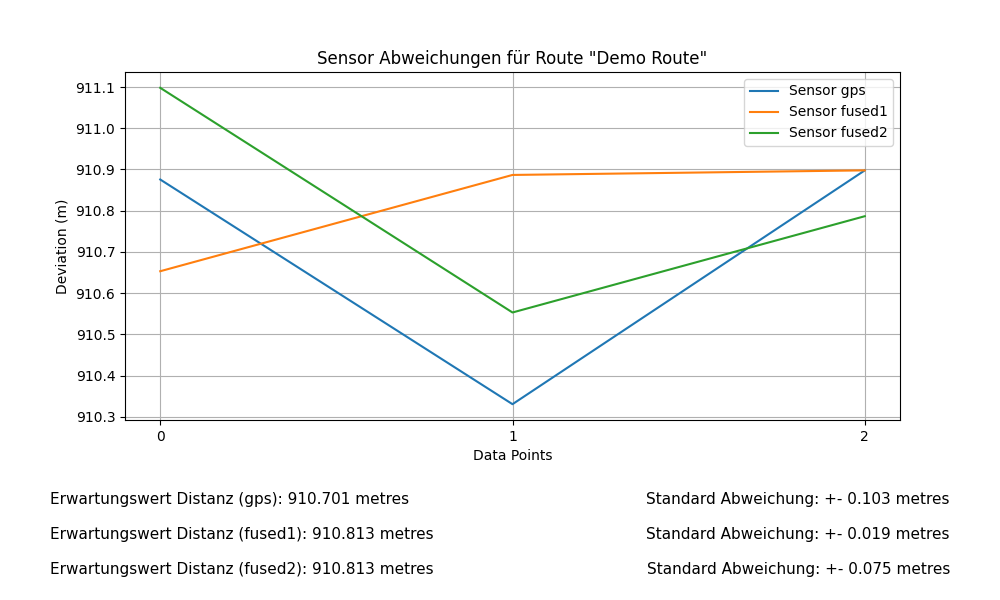
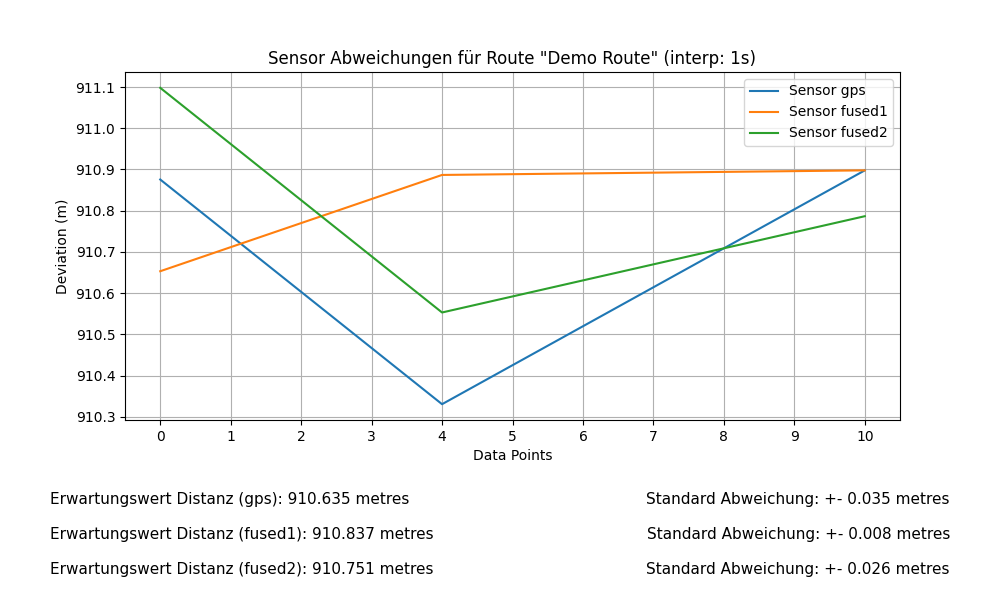
Interpolation hinzugefügt

diff --git a/main.py b/main.py
@@ -1,5 +1,7 @@
 import os
 import sys
+import time
+
 from calculations import *
 from plots import *
 import shutil
@@ -7,29 +9,35 @@ import shutil
 def generate_from_path(path, save_to=None):
     data_series: DataSeries = DataSeries.parse_from_csv(path)
     calculation_wrapper = data_series.extract_calc_wrapper()
+    interpolate_all_readings(calculation_wrapper)
 
     calculate_deviations_per_sensor(calculation_wrapper)
     calculate_sensor_div_expectation(calculation_wrapper)
     calculate_sensor_div_variance(calculation_wrapper)
 
+
+
     plot_deviation_per_sensor(calculation_wrapper,
                               show_avg_in_plot=False,
                               show_avg_under_plot=True,
                               show_variation_under_plot=True,
                               round_to=3,
-                              save_to=save_to+calculation_wrapper.route_name+"_both_under.png")
+                              save_to=save_to+calculation_wrapper.route_name+"_both_under.png",
+                              interpolation="1s")
     plot_deviation_per_sensor(calculation_wrapper,
                               show_avg_in_plot=True,
                               show_avg_under_plot=True,
                               show_variation_under_plot=True,
                               round_to=3,
-                              save_to=save_to+calculation_wrapper.route_name + "avg_in_plot.png")
+                              save_to=save_to+calculation_wrapper.route_name + "avg_in_plot.png",
+                              interpolation="1s")
     plot_deviation_per_sensor(calculation_wrapper,
                               show_avg_in_plot=False,
                               show_avg_under_plot=False,
                               show_variation_under_plot=False,
                               round_to=3,
-                              save_to=save_to+calculation_wrapper.route_name + "clean.png")
+                              save_to=save_to+calculation_wrapper.route_name + "clean.png",
+                              interpolation="1s")
 
     save_to += "/cdf/" # <- following files should be saved in cdf subdir
     for sensor in calculation_wrapper.sensors:
@@ -37,11 +45,12 @@ def generate_from_path(path, save_to=None):
         plot_cdf_and_confidence(calculation_wrapper.sensors[0], save_to=save_to + sensor.sensor_name + "_clean.png",
                                 highlight_50_ci=False,
                                 highlight_95_ci=False,
-                                show_interval_in_graph=False)
+                                show_interval_in_graph=False,
+                                interpolation="1s")
         plot_cdf_and_confidence(calculation_wrapper.sensors[0], save_to=save_to + sensor.sensor_name + "_subtle.png",
                                 highlight_50_ci=False,
-                                highlight_95_ci=False)
-
+                                highlight_95_ci=False,
+                                interpolation="1s")
 
 
 
@@ -62,8 +71,35 @@ def main():
         counter += 1
         if not os.path.isdir(file):
             os.makedirs(path + "/" + file.split(".")[0] + "_" + str(counter) + "/cdf")
-            generate_from_path(file, path + "/" + file.split(".")[0] + "_" + str(counter) + "/")
+            generate_from_path(path=file, save_to=path + "/" + file.split(".")[0] + "_" + str(counter) + "/")
+
+
+def debug():
+    data_series: DataSeries = DataSeries.parse_from_csv("demo.csv")
+    calculation_wrapper = data_series.extract_calc_wrapper()
+    calculation_wrapper = interpolate_all_readings(calculation_wrapper)
+
+    print(f"Now got {len(calculation_wrapper.sensors[0].readings)} readings")
+
+    calculate_deviations_per_sensor(calculation_wrapper)
+    calculate_sensor_div_expectation(calculation_wrapper)
+    calculate_sensor_div_variance(calculation_wrapper)
+
+    print("plotting")
+    plot_deviation_per_sensor(calculation_wrapper,
+                              show_avg_in_plot=False,
+                              show_avg_under_plot=True,
+                              show_variation_under_plot=True,
+                              round_to=3,)
 
 
 if __name__ == '__main__':
+    """
+    print(time.time_ns())
+    time.sleep(3)
+    print(time.time_ns())
+    time.sleep(5)
+    print(time.time_ns())
+    """
+    # debug()
     main()

diff --git a/calculations.py b/calculations.py
@@ -76,3 +76,51 @@ def print_deviation_per_sensor(wrapper: CalculationWrapper):
     for sensor in wrapper.sensors:
         for div in sensor.additional_payload.get("deviations"):
             print(div)
+
+
+def readings_interpolated(readings: list[Coordinate], freq_in_millis=1.0):
+    # Sort readings by timestamp
+    sorted_by_time = sorted(readings, key=lambda x: x.timestamp_nano)
+    interpolated = [sorted_by_time[0]]
+
+    # Iterate through the sorted readings
+    for i in range(1, len(sorted_by_time)):
+        reading_lower_interval = sorted_by_time[i - 1]
+        reading_higher_interval = sorted_by_time[i]
+
+        # Calculate time difference between adjacent readings in milliseconds
+        time_diff_millis = int(round((reading_higher_interval.timestamp_nano - reading_lower_interval.timestamp_nano) / 1e6))
+
+        # Calculate the number of intermediate points to insert
+        num_intermediate_points = int(time_diff_millis / (1000 / freq_in_millis))
+
+        if num_intermediate_points > 0:
+            # Calculate step size for linear interpolation
+            long_step = (reading_higher_interval.long - reading_lower_interval.long) / (num_intermediate_points + 1)
+            lat_step = (reading_higher_interval.lat - reading_lower_interval.lat) / (num_intermediate_points + 1)
+
+            # Perform linear interpolation for intermediate points
+            for j in range(1, num_intermediate_points + 1):
+                interpolated_long = reading_lower_interval.long + j * long_step
+                interpolated_lat = reading_lower_interval.lat + j * lat_step
+
+                # Calculate the timestamp for the interpolated point
+                interpolated_timestamp = reading_lower_interval.timestamp_nano + int(
+                    j * (time_diff_millis / (num_intermediate_points + 1)) * 1e6)
+
+                interpolated.append(Coordinate(long=interpolated_long, lat=interpolated_lat,
+                                               timestamp_nano=interpolated_timestamp))
+
+        interpolated.append(reading_higher_interval)
+
+    return interpolated
+
+
+def interpolate_all_readings(calculation_wrapper: CalculationWrapper, freq_in_millis=1.0):
+    # interpolate ground truth
+    calculation_wrapper.ground_truth = readings_interpolated(calculation_wrapper.ground_truth, freq_in_millis)
+
+    for sensor in calculation_wrapper.sensors:
+        sensor.readings = readings_interpolated(sensor.readings)
+
+    return calculation_wrapper

diff --git a/plots.py b/plots.py
@@ -9,7 +9,8 @@ def plot_deviation_per_sensor(wrapper: CalculationWrapper,
                               show_avg_under_plot=False,
                               show_variation_under_plot=False,
                               round_to=4,
-                              save_to=None):
+                              save_to=None,
+                              interpolation=None):
     plt.figure(figsize=(10, 6))
 
     all_divs = []
@@ -31,7 +32,7 @@ def plot_deviation_per_sensor(wrapper: CalculationWrapper,
 
     plt.xlabel('Data Points')
     plt.ylabel('Deviation (m)')
-    plt.title(f'Sensor Abweichungen für Route "{wrapper.route_name}"')
+    plt.title(f'Sensor Abweichungen für Route "{wrapper.route_name}" (interp: {interpolation})')
     plt.legend()
     plt.grid(True)
 
@@ -71,7 +72,8 @@ def plot_cdf_and_confidence(data: SensorData,
                             highlight_50_ci=True,
                             highlight_95_ci=True,
                             round_to=4,
-                            save_to=None):
+                            save_to=None,
+                            interpolation=None):
     # Extract relevant data
     deviations = data.additional_payload.get("deviations", [])
     expected_div = data.additional_payload.get("expected_div", 0)
@@ -85,7 +87,7 @@ def plot_cdf_and_confidence(data: SensorData,
     plt.figure(figsize=(8, 6))
     plt.plot(x, y, marker='o', linestyle='-', color='b')
     plt.title(f'CDF von {data.sensor_name}')
-    plt.xlabel('Positionierungsfehler')
+    plt.xlabel(f'Positionierungsfehler (interpolation: {interpolation})')
     plt.ylabel('Kumulative Wkt.')
     plt.grid(True)
 

diff --git a/csv_repository.py b/csv_repository.py
@@ -24,25 +24,26 @@ def pairwise(iterable):
 class Coordinate:
     long: float
     lat: float
+    timestamp_nano: int = 0
 
 
 @dataclass
 class Measure:
     ground_truth: Coordinate
     sensor_readings: list[Coordinate]
-    timestamp = 0
+    timestamp: int = 0
 
     # CSV has format: GT lon | GT lat | timestamp | s1 long | s1 lat ...
     @staticmethod
     def parse_from_csv_line(line: str):
         cols = line.split(CSV_COL_DELIMITER)
         to_return: Measure = Measure(
-            Coordinate(long=float(cols[0]), lat=float(cols[1])), sensor_readings=[])
+            Coordinate(long=float(cols[0]), lat=float(cols[1]), timestamp_nano=int(cols[2])), sensor_readings=[])
 
         to_return.timestamp = int(cols[2])
 
         for lon, lat in pairwise(cols[3:]):
-            to_return.sensor_readings.append(Coordinate(long=float(lon), lat=float(lat)))
+            to_return.sensor_readings.append(Coordinate(long=float(lon), lat=float(lat), timestamp_nano=int(cols[2])))
 
         return to_return
 
